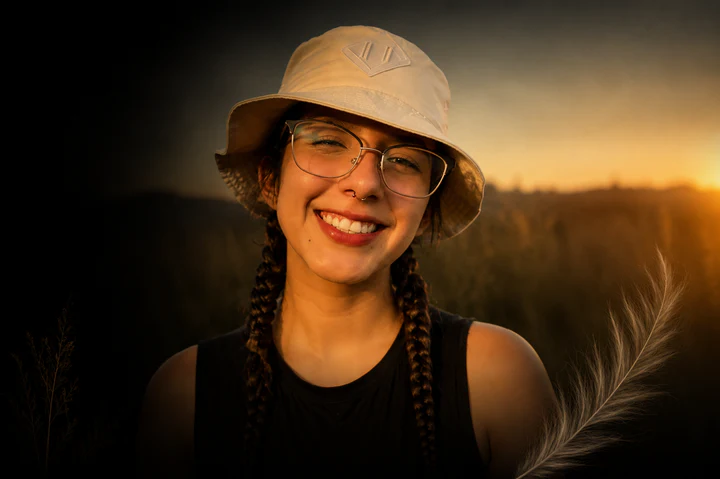
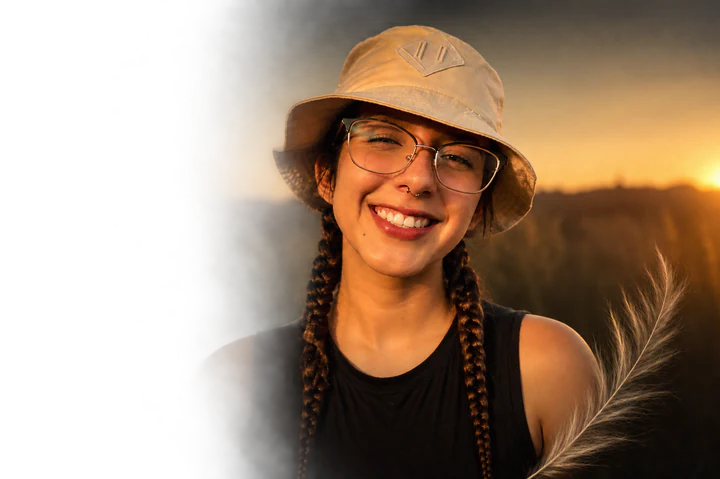
Replace hero photo with soft-edge transparent cutout, fix blend seam
Swaps in the new Jaali portrait with a real alpha-transparent left
edge and rebuilds the desktop/tablet/mobile derivatives from it.
Removes the now-redundant CSS scrim gradients that were fighting the
image's own alpha fade, recalibrates object-position so the transparent
zone isn't cropped away, and masks the desktop crop to avoid the dark
shirt showing through the panel blend.

diff --git a/styles/components.css b/styles/components.css
@@ -720,19 +720,11 @@
   position: absolute;
   z-index: 1;
   inset: 0;
-  background:
-    linear-gradient(
-      0deg,
-      var(--color-shimmer-blue) 2%,
-      color-mix(in srgb, var(--color-shimmer-blue) 94%, transparent) 24%,
-      color-mix(in srgb, var(--color-shimmer-blue) 48%, transparent) 54%,
-      transparent 78%
-    ),
-    radial-gradient(
-      circle at 12% 82%,
-      color-mix(in srgb, var(--color-copper) 42%, transparent),
-      transparent 46%
-    );
+  background: radial-gradient(
+    circle at 12% 82%,
+    color-mix(in srgb, var(--color-copper) 42%, transparent),
+    transparent 46%
+  );
   content: "";
   pointer-events: none;
 }
@@ -803,7 +795,7 @@
 
 .hero__media .responsive-asset__image {
   object-fit: cover;
-  object-position: 62% center;
+  object-position: 45% center;
   opacity: 1;
 }
 
@@ -1338,25 +1330,15 @@
   }
 
   .hero__media::after {
-    background:
-      linear-gradient(
-        90deg,
-        var(--color-shimmer-blue) 0%,
-        color-mix(in srgb, var(--color-shimmer-blue) 68%, transparent) 24%,
-        color-mix(in srgb, var(--color-shimmer-blue) 30%, transparent) 44%,
-        transparent 65%
-      ),
-      radial-gradient(
-        circle at 12% 92%,
-        color-mix(in srgb, var(--color-shimmer-blue) 60%, transparent),
-        transparent 48%
-      );
+    display: none;
   }
 
   .hero__media .responsive-asset__image {
     object-fit: cover;
-    object-position: 58% center;
+    object-position: 40% center;
     opacity: 1;
+    mask-image: linear-gradient(90deg, transparent 0%, black 38%);
+    -webkit-mask-image: linear-gradient(90deg, transparent 0%, black 38%);
   }
 
   .story-block__media {
@@ -1542,7 +1524,7 @@
   }
 
   .hero__media .responsive-asset__image {
-    object-position: right 44%;
+    object-position: 35% 44%;
   }
 
   .story-block__media {
